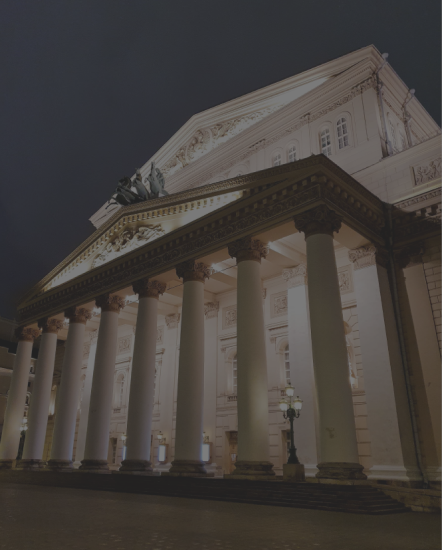
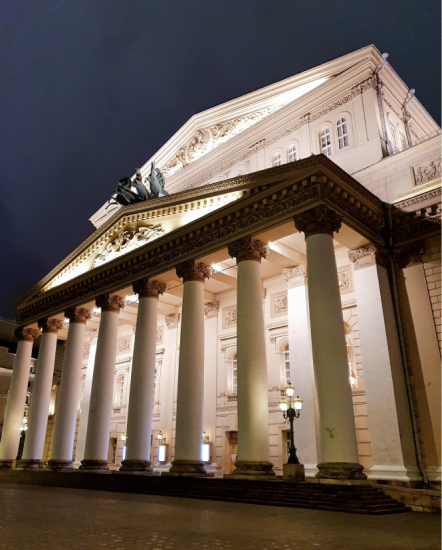
slider opacity

diff --git a/css/style.min.css b/css/style.min.css
@@ -1,1 +1,1 @@
-@font-face{font-family:'Open Sans';src:url(../fonts/OpenSans/OpenSans-Regular.woff) format("woff"),url(../fonts/OpenSans/OpenSans-Regular.woff2) format("woff");font-weight:400;font-style:normal;font-display:wrap}@font-face{font-family:'Open Sans Condensed Light';src:url(../fonts/OpenSansCondensed/OpenSansCondensed-Light.woff) format("woff"),url(../fonts/OpenSansCondensed/OpenSansCondensed-Light.woff2) format("woff");font-weight:300;font-style:normal;font-display:wrap}@font-face{font-family:'Open Sans Condensed Bold';src:url(../fonts/OpenSansCondensed/OpenSansCondensed-Bold.woff) format("woff"),url(../fonts/OpenSansCondensed/OpenSansCondensed-Bold.woff2) format("woff");font-weight:700;font-style:normal;font-display:wrap}/*! normalize.css v8.0.1 | MIT License | github.com/necolas/normalize.css */html{line-height:1.15;-webkit-text-size-adjust:100%}body{margin:0}main{display:block}h1{font-size:2em;margin:.67em 0}hr{box-sizing:content-box;height:0;overflow:visible}pre{font-family:monospace,monospace;font-size:1em}a{background-color:transparent}abbr[title]{border-bottom:none;text-decoration:underline;text-decoration:underline dotted}b,strong{font-weight:bolder}code,kbd,samp{font-family:monospace,monospace;font-size:1em}small{font-size:80%}sub,sup{font-size:75%;line-height:0;position:relative;vertical-align:baseline}sub{bottom:-.25em}sup{top:-.5em}img{border-style:none}button,input,optgroup,select,textarea{font-family:inherit;font-size:100%;line-height:1.15;margin:0}button,input{overflow:visible}button,select{text-transform:none}[type=button],[type=reset],[type=submit],button{-webkit-appearance:button}[type=button]::-moz-focus-inner,[type=reset]::-moz-focus-inner,[type=submit]::-moz-focus-inner,button::-moz-focus-inner{border-style:none;padding:0}[type=button]:-moz-focusring,[type=reset]:-moz-focusring,[type=submit]:-moz-focusring,button:-moz-focusring{outline:1px dotted ButtonText}fieldset{padding:.35em .75em .625em}legend{box-sizing:border-box;color:inherit;display:table;max-width:100%;padding:0;white-space:normal}progress{vertical-align:baseline}textarea{overflow:auto}[type=checkbox],[type=radio]{box-sizing:border-box;padding:0}[type=number]::-webkit-inner-spin-button,[type=number]::-webkit-outer-spin-button{height:auto}[type=search]{-webkit-appearance:textfield;outline-offset:-2px}[type=search]::-webkit-search-decoration{-webkit-appearance:none}::-webkit-file-upload-button{-webkit-appearance:button;font:inherit}details{display:block}summary{display:list-item}template{display:none}[hidden]{display:none}.container{max-width:1130px;margin:0 150px;padding:0 10px;width:100%}*,:after,:before{box-sizing:border-box}html{font-size:14px}body{font-family:'Open Sans',sans-serif;font-size:1rem;background-color:#333}img{max-width:100%}a{text-decoration:none}h2{margin:0}p{margin:0}.header{background:linear-gradient(0deg,rgba(51,51,51,.85),rgba(51,51,51,.85)),url(../img/hero.png) no-repeat center/cover;height:1045px;color:#fff;padding-top:50px}.header__wrap{display:flex;justify-content:center}.header__wrapper{display:flex;margin-top:190px;align-items:center}.header__content{max-width:540px;height:296px;display:flex;flex-direction:column}.header__title{font-family:Open Sans Condensed Bold;font-weight:700;font-size:64px;line-height:87px;letter-spacing:.1em;text-transform:uppercase}.header__text{font-family:Open Sans;font-size:14px;line-height:150%;margin:50px 0}.header__button{font-family:Open Sans Condensed Bold;font-weight:700;font-size:18px;line-height:25px;text-align:center;letter-spacing:.1em;text-transform:uppercase;color:#fff;text-decoration:none;border:none;background:#d1a954;max-width:160px;padding:12px 47px;cursor:pointer}.header__slider-item{width:100%;height:510px;padding-right:20px}.header__slider-img{position:relative;width:350px;height:490px;object-fit:cover;object-position:center}.header__slider-img::before{content:"";position:absolute;z-index:2;top:20px;left:20px;display:block;width:100%;height:100%;background:linear-gradient(0deg,rgba(209,169,84,.85),rgba(209,169,84,.85))}.header__img-primary{position:relative;z-index:5;width:100%;height:auto}.header__img-secondary{position:absolute;z-index:1;top:20px;left:20px;width:100%;height:auto}.menu{display:flex;align-items:center;justify-content:space-between}.nav{display:flex;align-items:center}.nav__item{text-decoration:none;color:#fff;font-family:Open Sans Condensed Bold;font-weight:700;font-size:18px;line-height:25px;letter-spacing:.1em;text-transform:uppercase;margin-right:63px}.contact{border-bottom:2px solid #d1a954}.contact__phone{text-decoration:none;color:#fff;font-family:Open Sans Condensed Bold;font-weight:700;font-size:16px;line-height:22px;text-align:right;letter-spacing:.05em;text-transform:uppercase}.social{background:rgba(51,51,51,.75);display:flex;flex-wrap:nowrap;flex-direction:column;justify-content:flex-end;align-items:center;position:fixed;top:0;left:0;bottom:0;max-width:150px;z-index:999;overflow:hidden}.social__title{font-family:Open Sans Condensed Bold;font-weight:700;font-size:18px;line-height:25px;letter-spacing:.1em;text-transform:uppercase;color:#c4c4c4;transform:rotate(-90deg);width:440px;display:flex;align-items:center}.social__title::before{content:'';width:80px;height:3px;background-color:#c4c4c4;margin-right:40px}.social__link{display:flex;align-items:center;justify-content:center;margin-top:30px}.social__icon:hover{filter:invert(67%) sepia(16%) saturate(1120%) hue-rotate(3deg) brightness(96%) contrast(104%)}.youtube{margin-bottom:86px}.instagram{margin-top:250px}.slick-list{overflow:hidden}.slick-track{display:flex}.header__slider{position:relative}.header__slider .slick-arrow{position:absolute;top:100%;margin:35px 0 0 0;z-index:10;font-size:0;width:108px;height:25px;border:none}.header__slider .slick-arrow.slick-prev{left:0;background:url(../img/prev.png) 0 0/100% no-repeat;cursor:pointer}.header__slider .slick-arrow.slick-next{right:0;background:url(../img/next.png) 0 0/100% no-repeat;cursor:pointer}.header__wrap-slider{width:370px;margin:0 auto}.theater{display:flex;justify-content:center;margin-top:150px}.theater__title{text-align:center;font-family:Open Sans Condensed Light;font-weight:300;font-size:48px;line-height:65px;letter-spacing:.1em;text-transform:uppercase;color:#fff;margin-bottom:100px}.theater__wrap{display:flex}.theater__description{display:flex;flex-direction:column;max-width:445px}.theater__heading{font-family:Open Sans Condensed Bold;font-weight:700;font-size:21px;line-height:29px;letter-spacing:.1em;text-transform:uppercase;color:#fff;margin:0 0 40px 0}.theater__text{font-family:Open Sans;font-style:normal;font-weight:400;font-size:14px;line-height:150%;color:#fff}.theater__icon{max-width:255px;margin:0 30px;width:100%}.theater__block{display:flex;flex-direction:column}.theater__chair-icon{max-width:70px;height:100%}.theater__chair-text{font-family:Open Sans Condensed Bold;font-weight:700;font-size:16px;line-height:22px;letter-spacing:.05em;color:#fff;margin-top:15px}.theater__theater-icon{max-width:70px;height:100%;margin-top:25px}.theater__image{object-fit:contain;height:100%}.color{color:#d1a954}.stars{display:flex;justify-content:center;margin-top:150px}.stars__wrap{display:flex;background:url(../img/stars-img.png) no-repeat center/cover;height:550px}.stars__years{display:flex;flex-direction:column;align-items:center;justify-content:center;margin-left:190px;margin-right:103px}.stars__year{font-family:Open Sans Condensed Bold;font-style:normal;font-weight:700;font-size:72px;line-height:98px;letter-spacing:.1em;text-transform:uppercase;color:#d1a954}.stars__text{display:flex;flex-direction:column;justify-content:center}.stars__star{margin-right:25px;margin-bottom:25px}.stars__description{font-weight:700;font-size:36px;line-height:150%;color:#fff;max-width:540px}.partners{display:flex;justify-content:center;margin-top:150px}.partners__title{font-family:Open Sans Condensed Light;font-weight:300;font-size:48px;line-height:65px;text-align:center;letter-spacing:.1em;text-transform:uppercase;color:#fff;margin-bottom:100px}.partners__slider{position:relative}.partners__slider-item{text-align:center;margin-bottom:80px}.footer{display:flex;justify-content:center;margin-top:120px}.footer__title{font-family:Open Sans Condensed Light;font-weight:300;font-size:48px;line-height:65px;text-align:center;letter-spacing:.1em;text-transform:uppercase;color:#fff;margin-bottom:100px}.footer__maecenas{display:flex;margin-bottom:80px}.footer__contact{display:flex;flex-direction:column;max-width:255px;margin-right:125px}.footer__phone{font-family:Open Sans Condensed Bold;font-weight:700;font-size:16px;line-height:22px;letter-spacing:.05em;text-transform:uppercase;color:#fff;margin-bottom:25px}.footer__wrap{max-width:730px}.footer__block-one{display:flex;margin-bottom:40px}.footer__input-group{display:flex;flex-direction:column}.footer__input-group--one{margin-right:30px}.footer__input{width:180px;height:35px;padding:0 0 0 15px;border:1px solid #616161;background:#444;outline:0;color:#fff}.footer__input-top{margin-bottom:30px}.footer__input--primary{width:310px;height:100px;padding:0 0 65px 15px}.footer__block-two{display:flex;justify-content:space-between}.footer__policy{max-width:390px;font-family:Open Sans;font-size:12px;line-height:150%;color:#989898}.footer__btn{font-family:Open Sans Condensed Bold;font-style:normal;font-weight:700;font-size:18px;line-height:25px;letter-spacing:.1em;text-transform:uppercase;color:#fff;width:190px;height:50px;padding:0;border:none;background:#d1a954;cursor:pointer}.footer__dev{display:flex;justify-content:space-between;align-items:flex-end;height:48px;margin-bottom:30px;border-top:1px solid #565656}.footer__text{font-family:Open Sans;font-size:12px;line-height:150%;text-align:right;color:#989898}::placeholder{color:#989898;font-family:Open Sans;font-weight:600;font-size:12px;line-height:150%}
+@font-face{font-family:'Open Sans';src:url(../fonts/OpenSans/OpenSans-Regular.woff) format("woff"),url(../fonts/OpenSans/OpenSans-Regular.woff2) format("woff");font-weight:400;font-style:normal;font-display:wrap}@font-face{font-family:'Open Sans Condensed Light';src:url(../fonts/OpenSansCondensed/OpenSansCondensed-Light.woff) format("woff"),url(../fonts/OpenSansCondensed/OpenSansCondensed-Light.woff2) format("woff");font-weight:300;font-style:normal;font-display:wrap}@font-face{font-family:'Open Sans Condensed Bold';src:url(../fonts/OpenSansCondensed/OpenSansCondensed-Bold.woff) format("woff"),url(../fonts/OpenSansCondensed/OpenSansCondensed-Bold.woff2) format("woff");font-weight:700;font-style:normal;font-display:wrap}/*! normalize.css v8.0.1 | MIT License | github.com/necolas/normalize.css */html{line-height:1.15;-webkit-text-size-adjust:100%}body{margin:0}main{display:block}h1{font-size:2em;margin:.67em 0}hr{box-sizing:content-box;height:0;overflow:visible}pre{font-family:monospace,monospace;font-size:1em}a{background-color:transparent}abbr[title]{border-bottom:none;text-decoration:underline;text-decoration:underline dotted}b,strong{font-weight:bolder}code,kbd,samp{font-family:monospace,monospace;font-size:1em}small{font-size:80%}sub,sup{font-size:75%;line-height:0;position:relative;vertical-align:baseline}sub{bottom:-.25em}sup{top:-.5em}img{border-style:none}button,input,optgroup,select,textarea{font-family:inherit;font-size:100%;line-height:1.15;margin:0}button,input{overflow:visible}button,select{text-transform:none}[type=button],[type=reset],[type=submit],button{-webkit-appearance:button}[type=button]::-moz-focus-inner,[type=reset]::-moz-focus-inner,[type=submit]::-moz-focus-inner,button::-moz-focus-inner{border-style:none;padding:0}[type=button]:-moz-focusring,[type=reset]:-moz-focusring,[type=submit]:-moz-focusring,button:-moz-focusring{outline:1px dotted ButtonText}fieldset{padding:.35em .75em .625em}legend{box-sizing:border-box;color:inherit;display:table;max-width:100%;padding:0;white-space:normal}progress{vertical-align:baseline}textarea{overflow:auto}[type=checkbox],[type=radio]{box-sizing:border-box;padding:0}[type=number]::-webkit-inner-spin-button,[type=number]::-webkit-outer-spin-button{height:auto}[type=search]{-webkit-appearance:textfield;outline-offset:-2px}[type=search]::-webkit-search-decoration{-webkit-appearance:none}::-webkit-file-upload-button{-webkit-appearance:button;font:inherit}details{display:block}summary{display:list-item}template{display:none}[hidden]{display:none}.container{max-width:1130px;margin:0 150px;padding:0 10px;width:100%}*,:after,:before{box-sizing:border-box}html{font-size:14px}body{font-family:'Open Sans',sans-serif;font-size:1rem;background-color:#333}img{max-width:100%}a{text-decoration:none}h2{margin:0}p{margin:0}.header{background:linear-gradient(0deg,rgba(51,51,51,.85),rgba(51,51,51,.85)),url(../img/hero.png) no-repeat center/cover;height:1045px;color:#fff;padding-top:50px}.header__wrap{display:flex;justify-content:center}.header__wrapper{display:flex;margin-top:190px;align-items:center}.header__content{max-width:540px;height:296px;display:flex;flex-direction:column}.header__title{font-family:Open Sans Condensed Bold;font-weight:700;font-size:64px;line-height:87px;letter-spacing:.1em;text-transform:uppercase}.header__text{font-family:Open Sans;font-size:14px;line-height:150%;margin:50px 0}.header__button{font-family:Open Sans Condensed Bold;font-weight:700;font-size:18px;line-height:25px;text-align:center;letter-spacing:.1em;text-transform:uppercase;color:#fff;text-decoration:none;border:none;background:#d1a954;max-width:160px;padding:12px 47px;cursor:pointer}.header__slider-item{width:100%;height:510px;padding-right:20px}.header__slider-img{position:relative;width:350px;height:490px;object-fit:cover;object-position:center}.header__slider-img::before{content:"";position:absolute;z-index:2;top:20px;left:20px;display:block;width:100%;height:100%;background:linear-gradient(0deg,rgba(209,169,84,.85),rgba(209,169,84,.85))}.header__img-primary{position:relative;z-index:5;width:100%;height:auto}.header__img-secondary{position:absolute;z-index:1;top:20px;left:20px;width:100%;height:auto}.menu{display:flex;align-items:center;justify-content:space-between}.nav{display:flex;align-items:center}.nav__item{text-decoration:none;color:#fff;font-family:Open Sans Condensed Bold;font-weight:700;font-size:18px;line-height:25px;letter-spacing:.1em;text-transform:uppercase;margin-right:63px}.contact{border-bottom:2px solid #d1a954}.contact__phone{text-decoration:none;color:#fff;font-family:Open Sans Condensed Bold;font-weight:700;font-size:16px;line-height:22px;text-align:right;letter-spacing:.05em;text-transform:uppercase}.social{background:rgba(51,51,51,.75);display:flex;flex-wrap:nowrap;flex-direction:column;justify-content:flex-end;align-items:center;position:fixed;top:0;left:0;bottom:0;max-width:150px;z-index:999;overflow:hidden}.social__title{font-family:Open Sans Condensed Bold;font-weight:700;font-size:18px;line-height:25px;letter-spacing:.1em;text-transform:uppercase;color:#c4c4c4;transform:rotate(-90deg);width:440px;display:flex;align-items:center}.social__title::before{content:'';width:80px;height:3px;background-color:#c4c4c4;margin-right:40px}.social__link{display:flex;align-items:center;justify-content:center;margin-top:30px}.social__icon:hover{filter:invert(67%) sepia(16%) saturate(1120%) hue-rotate(3deg) brightness(96%) contrast(104%)}.youtube{margin-bottom:86px}.instagram{margin-top:250px}.slick-list{overflow:hidden}.slick-track{display:flex}.header__slider{position:relative}.header__slider .slick-arrow{position:absolute;top:100%;margin:35px 0 0 0;z-index:10;font-size:0;width:108px;height:25px;border:none}.header__slider .slick-arrow.slick-prev{left:0;background:url(../img/prev.png) 0 0/100% no-repeat;cursor:pointer}.header__slider .slick-arrow.slick-next{right:0;background:url(../img/next.png) 0 0/100% no-repeat;cursor:pointer}.header__wrap-slider{width:370px;margin:0 auto}.theater{display:flex;justify-content:center;margin-top:150px}.theater__title{text-align:center;font-family:Open Sans Condensed Light;font-weight:300;font-size:48px;line-height:65px;letter-spacing:.1em;text-transform:uppercase;color:#fff;margin-bottom:100px}.theater__wrap{display:flex}.theater__description{display:flex;flex-direction:column;max-width:445px}.theater__heading{font-family:Open Sans Condensed Bold;font-weight:700;font-size:21px;line-height:29px;letter-spacing:.1em;text-transform:uppercase;color:#fff;margin:0 0 40px 0}.theater__text{font-family:Open Sans;font-style:normal;font-weight:400;font-size:14px;line-height:150%;color:#fff}.theater__icon{max-width:255px;margin:0 30px;width:100%}.theater__block{display:flex;flex-direction:column}.theater__chair-icon{max-width:70px;height:100%}.theater__chair-text{font-family:Open Sans Condensed Bold;font-weight:700;font-size:16px;line-height:22px;letter-spacing:.05em;color:#fff;margin-top:15px}.theater__theater-icon{max-width:70px;height:100%;margin-top:25px}.color{color:#d1a954}.staging{margin:150px 0 150px}.staging__title{font-family:Open Sans Condensed Light;font-weight:300;font-size:48px;line-height:65px;text-align:center;letter-spacing:.1em;text-transform:uppercase;color:#fff;margin-bottom:100px}.staging__wrap{margin-left:150px;max-width:1750px}.slick-list{overflow:hidden}.slick-track{display:flex}.staging__slider{position:relative}.staging__item{height:550px}.stars{display:flex;justify-content:center}.stars__wrap{display:flex;background:url(../img/stars-img.png) no-repeat center/cover;height:550px}.stars__years{display:flex;flex-direction:column;align-items:center;justify-content:center;margin-left:190px;margin-right:103px}.stars__year{font-family:Open Sans Condensed Bold;font-style:normal;font-weight:700;font-size:72px;line-height:98px;letter-spacing:.1em;text-transform:uppercase;color:#d1a954}.stars__text{display:flex;flex-direction:column;justify-content:center}.stars__star{margin-right:25px;margin-bottom:25px}.stars__description{font-weight:700;font-size:36px;line-height:150%;color:#fff;max-width:540px}.partners{display:flex;justify-content:center;margin-top:150px}.partners__title{font-family:Open Sans Condensed Light;font-weight:300;font-size:48px;line-height:65px;text-align:center;letter-spacing:.1em;text-transform:uppercase;color:#fff;margin-bottom:100px}.partners__slider{position:relative}.partners__slider-item{text-align:center;margin-bottom:80px}.footer{display:flex;justify-content:center;margin-top:120px}.footer__title{font-family:Open Sans Condensed Light;font-weight:300;font-size:48px;line-height:65px;text-align:center;letter-spacing:.1em;text-transform:uppercase;color:#fff;margin-bottom:100px}.footer__maecenas{display:flex;margin-bottom:80px}.footer__contact{display:flex;flex-direction:column;max-width:255px;margin-right:125px}.footer__phone{font-family:Open Sans Condensed Bold;font-weight:700;font-size:16px;line-height:22px;letter-spacing:.05em;text-transform:uppercase;color:#fff;margin-bottom:25px}.footer__wrap{max-width:730px}.footer__block-one{display:flex;margin-bottom:40px}.footer__input-group{display:flex;flex-direction:column}.footer__input-group--one{margin-right:30px}.footer__input{width:180px;height:35px;padding:0 0 0 15px;border:1px solid #616161;background:#444;outline:0;color:#fff}.footer__input-top{margin-bottom:30px}.footer__input--primary{width:310px;height:100px;padding:0 0 65px 15px}.footer__block-two{display:flex;justify-content:space-between}.footer__policy{max-width:390px;font-family:Open Sans;font-size:12px;line-height:150%;color:#989898}.footer__btn{font-family:Open Sans Condensed Bold;font-style:normal;font-weight:700;font-size:18px;line-height:25px;letter-spacing:.1em;text-transform:uppercase;color:#fff;width:190px;height:50px;padding:0;border:none;background:#d1a954;cursor:pointer}.footer__dev{display:flex;justify-content:space-between;align-items:flex-end;height:48px;margin-bottom:30px;border-top:1px solid #565656}.footer__text{font-family:Open Sans;font-size:12px;line-height:150%;text-align:right;color:#989898}::placeholder{color:#989898;font-family:Open Sans;font-weight:600;font-size:12px;line-height:150%}

diff --git a/css/style.css b/css/style.css
@@ -629,7 +629,19 @@ p {
   position: relative; }
 
 .staging__item {
-  height: 550px; }
+  max-width: 442px;
+  height: 550px;
+  position: relative; }
+
+.staging__item::after {
+  content: '';
+  position: absolute;
+  top: 0;
+  left: 0;
+  height: 100%;
+  width: 100%;
+  transition: all 1s ease;
+  background: linear-gradient(0deg, rgba(51, 51, 51, 0.65), rgba(51, 51, 51, 0.65)); }
 
 .stars {
   display: flex;

diff --git a/sass/templates/_staging.sass b/sass/templates/_staging.sass
@@ -20,4 +20,15 @@
 .staging__slider
     position: relative
 .staging__item
+    max-width: 442px
     height: 550px
+    position: relative
+.staging__item::after
+    content: ''
+    position: absolute
+    top: 0
+    left: 0
+    height: 100%
+    width: 100%
+    transition: all 1s ease
+    background: linear-gradient(0deg, rgba(51, 51, 51, 0.65), rgba(51, 51, 51, 0.65))
